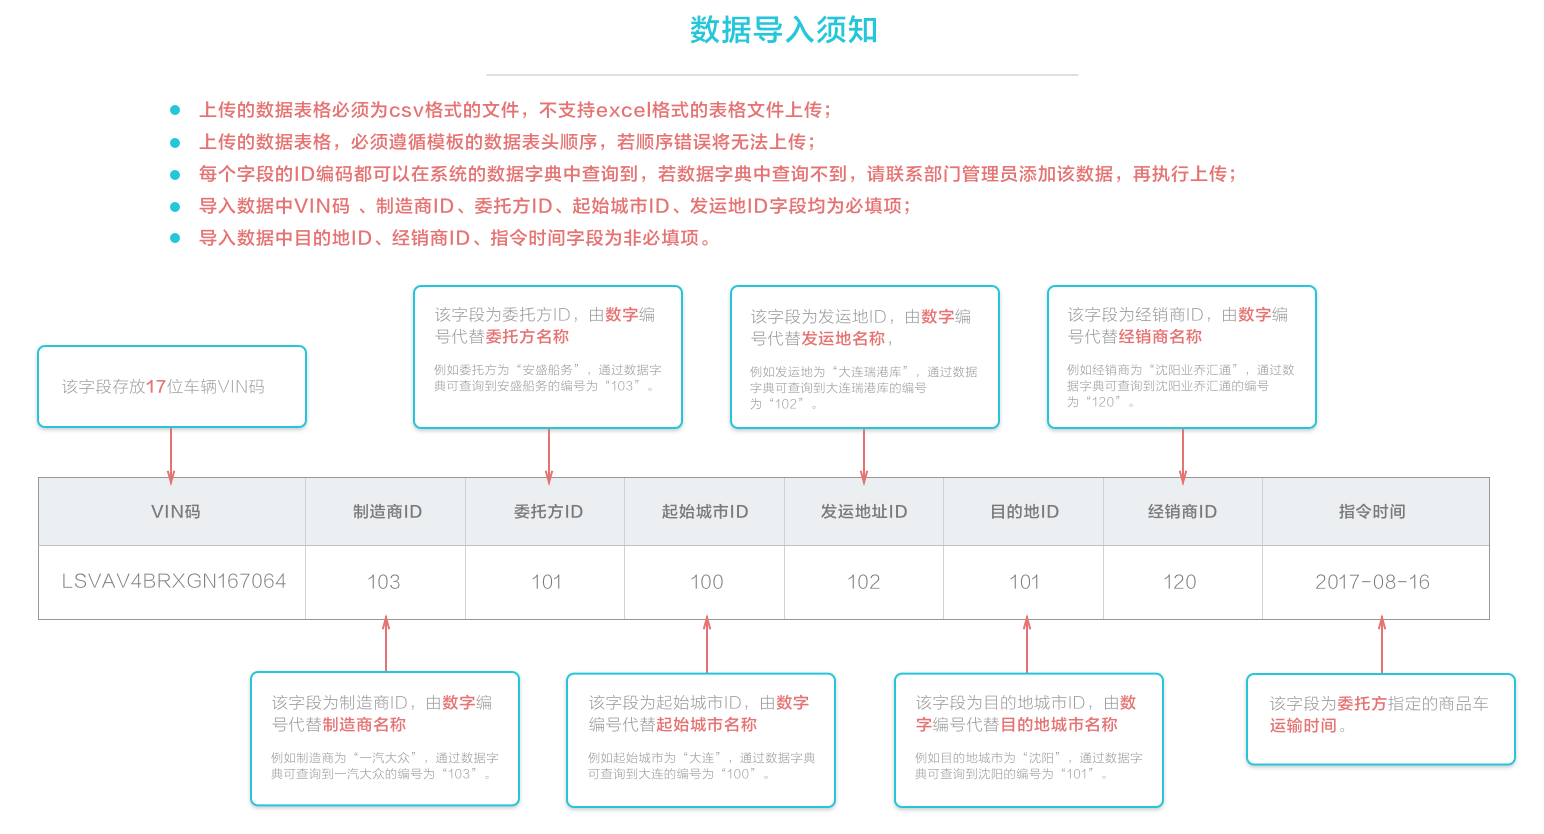
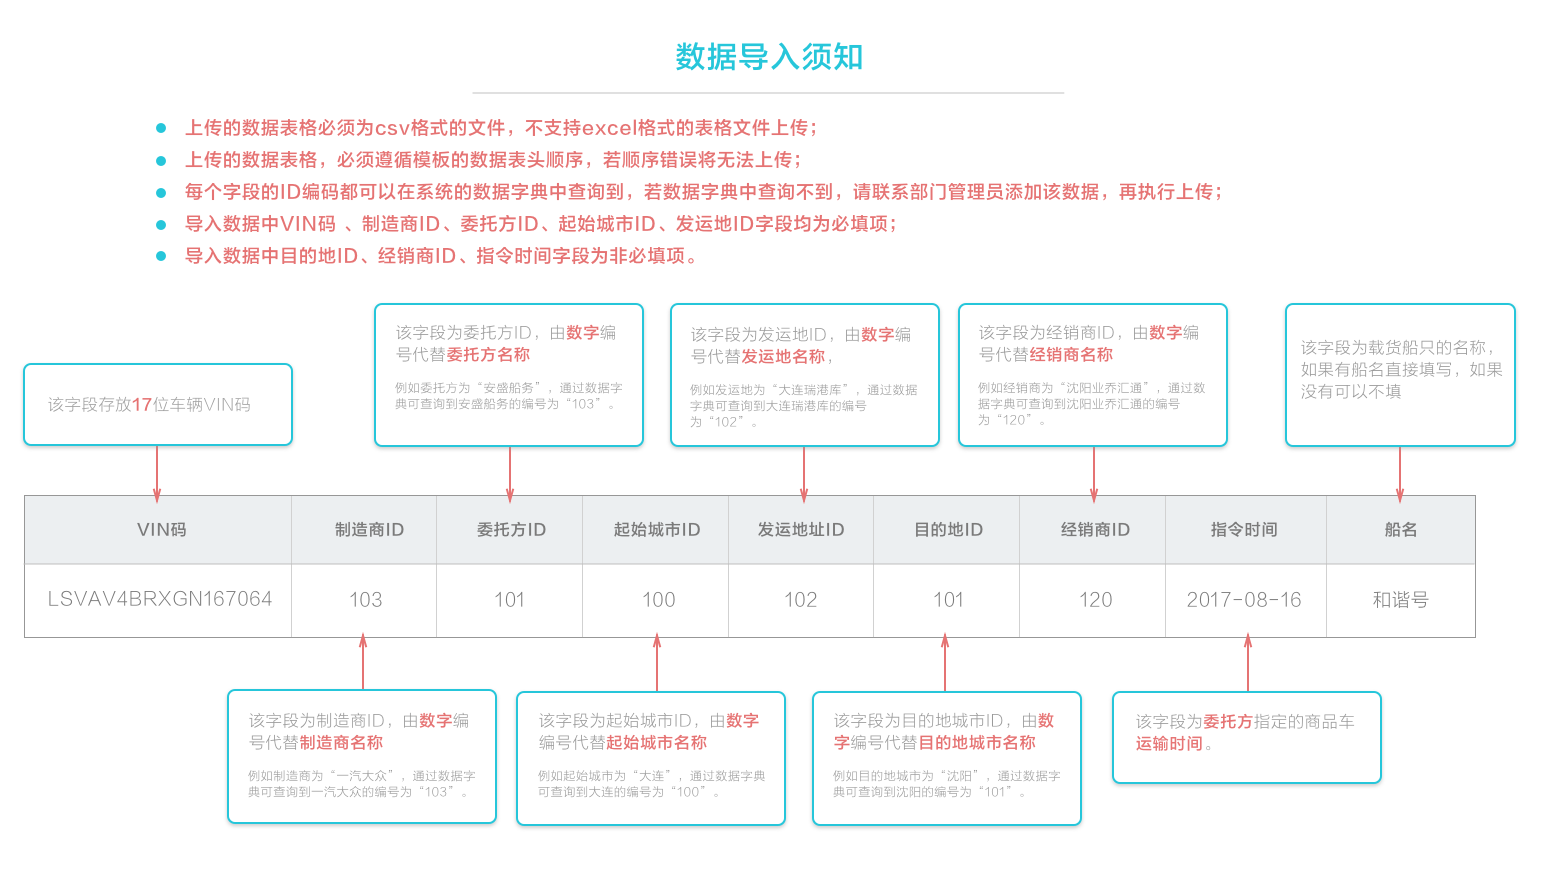
出车款修改 添加商品车费住宿费

diff --git a/web/js/controller/data/car_to_data_controller.js b/web/js/controller/data/car_to_data_controller.js
@@ -51,7 +51,8 @@ app.controller("car_to_data_controller", ['$scope', "$host", '_basic', '_socket'
             {name: '发运地址ID', type: 'number', length: 3, require: true},
             {name: '目的地ID', type: 'number', length: 3},
             {name: '经销商ID', type: 'number', length: 3},
-            {name: '指令时间', type: 'string'}];
+            {name: '指令时间', type: 'string'},
+            {name: '船名', type: 'string', length: 15}];
         // 头部条件判断
         $scope.titleFilter = function (headerArray) {
             if (colObjs.length != headerArray.length) {
@@ -474,58 +475,58 @@ app.controller("car_to_data_controller", ['$scope', "$host", '_basic', '_socket'
             $scope.flag = false;
 
         }
-    // 城市信息获取
-    $scope.get_Msg = function () {
-        _basic.get($host.api_url + "/city").then(function (data) {
-            if (data.success == true) {
-                $scope.get_city = data.result;
-                $('#chooseStartCity').select2({
-                    containerCssClass: 'select2_dropdown'
-                });
-                $('#chooseEndCity').select2({
-                    containerCssClass: 'select2_dropdown'
-                });
-            }
-        });
+        // 城市信息获取
+        $scope.get_Msg = function () {
+            _basic.get($host.api_url + "/city").then(function (data) {
+                if (data.success == true) {
+                    $scope.get_city = data.result;
+                    $('#chooseStartCity').select2({
+                        containerCssClass: 'select2_dropdown'
+                    });
+                    $('#chooseEndCity').select2({
+                        containerCssClass: 'select2_dropdown'
+                    });
+                }
+            });
 
-        // 车辆品牌查询
-        _basic.get($host.api_url + "/carMake").then(function (data) {
-            if (data.success == true) {
-                $scope.makecarName = data.result;
-            }
-            else {
-                swal(data.msg, "", "error");
-            }
-        });
+            // 车辆品牌查询
+            _basic.get($host.api_url + "/carMake").then(function (data) {
+                if (data.success == true) {
+                    $scope.makecarName = data.result;
+                }
+                else {
+                    swal(data.msg, "", "error");
+                }
+            });
 
-        // 经销商
-        _basic.get($host.api_url + "/receive").then(function (data) {
-            if (data.success == true) {
-                $scope.get_receive = data.result;
-            }
-        });
+            // 经销商
+            _basic.get($host.api_url + "/receive").then(function (data) {
+                if (data.success == true) {
+                    $scope.get_receive = data.result;
+                }
+            });
 
-        // 委托方
-        _basic.get($host.api_url + "/entrust").then(function (data) {
-            if (data.success == true) {
-                $scope.get_entrust = data.result;
-            }
-        })
-    };
-    $scope.get_Msg();
+            // 委托方
+            _basic.get($host.api_url + "/entrust").then(function (data) {
+                if (data.success == true) {
+                    $scope.get_entrust = data.result;
+                }
+            })
+        };
+        $scope.get_Msg();
 
-    // 发运地城市地质联动
-    $scope.get_addr = function (id) {
-        $scope.selectedText = $("#chooseStartCity").find("option:selected").text();
-        _basic.get($host.api_url + "/baseAddr?cityId=" + id).then(function (data) {
-            if (data.success == true) {
-                $scope.start_address = data.result;
-            }
-            else {
-                swal(data.msg, "", "error")
-            }
-        })
-    };
+        // 发运地城市地质联动
+        $scope.get_addr = function (id) {
+            $scope.selectedText = $("#chooseStartCity").find("option:selected").text();
+            _basic.get($host.api_url + "/baseAddr?cityId=" + id).then(function (data) {
+                if (data.success == true) {
+                    $scope.start_address = data.result;
+                }
+                else {
+                    swal(data.msg, "", "error")
+                }
+            })
+        };
 
         //模糊查询
         var vinObjs ={}
@@ -596,60 +597,60 @@ app.controller("car_to_data_controller", ['$scope', "$host", '_basic', '_socket'
 
 
 
-    // 修改
-    $scope.putDataItem = function (id) {
-        $scope.putDataItemId = id;
-        if($scope.arrive_city==0||$scope.arrive_city==''||$scope.start_city==0||$scope.start_city==''){
-            swal('请填写完整信息！',"","error")
-        }
-        else{
-            _basic.get($host.api_url +'/city?cityId='+$scope.start_city).then(function (data) {
-                if (data.success == true) {
-                    $scope.putStartCity=data.result[0].city_name;
-                }
-                else {
-                    swal(data.msg, "", "error")
-                }
-            });
-            _basic.get($host.api_url +'/city?cityId='+$scope.arrive_city).then(function (data) {
-                if (data.success == true) {
-                    $scope.putArriveCity=data.result[0].city_name;
-                    putSingleData();
-                }
-                else {
-                    swal(data.msg, "", "error")
-                }
-            });
+        // 修改
+        $scope.putDataItem = function (id) {
+            $scope.putDataItemId = id;
+            if($scope.arrive_city==0||$scope.arrive_city==''||$scope.start_city==0||$scope.start_city==''){
+                swal('请填写完整信息！',"","error")
+            }
+            else{
+                _basic.get($host.api_url +'/city?cityId='+$scope.start_city).then(function (data) {
+                    if (data.success == true) {
+                        $scope.putStartCity=data.result[0].city_name;
+                    }
+                    else {
+                        swal(data.msg, "", "error")
+                    }
+                });
+                _basic.get($host.api_url +'/city?cityId='+$scope.arrive_city).then(function (data) {
+                    if (data.success == true) {
+                        $scope.putArriveCity=data.result[0].city_name;
+                        putSingleData();
+                    }
+                    else {
+                        swal(data.msg, "", "error")
+                    }
+                });
+            };
         };
-    };
 
-function putSingleData(){
-    var obj = {
-        "vin": $scope.commodityCarList.vin,
-        "makeId": $scope.commodityCarList.make_id,
-        "makeName": $("#look_makecarName").find("option:selected").text(),
-        "orderDate": $scope.commodityCarList.order_date,
-        "remark": $scope.commodityCarList.remark,
-        "routeStartId": $scope.start_city,
-        "routeStart":$scope.putStartCity,
-        "baseAddrId": $scope.start_addr,
-        "routeEndId": $scope.arrive_city,
-        "routeEnd":$scope.putArriveCity,
-        "receiveId": $scope.commodityCarList.receive_id,
-        "entrustId": $scope.commodityCarList.entrust_id
-    };
-    // 修改仓库信息
-    _basic.put($host.api_url + "/user/" + userId + "/car/" +  $scope.putDataItemId, _basic.removeNullProps(obj)).then(function (data) {
-        if (data.success == true) {
-            $('#commodityCar').modal('close');
-            swal("修改成功", "", "success");
+       function putSingleData(){
+        var obj = {
+            "vin": $scope.commodityCarList.vin,
+            "makeId": $scope.commodityCarList.make_id,
+            "makeName": $("#look_makecarName").find("option:selected").text(),
+            "orderDate": $scope.commodityCarList.order_date,
+            "remark": $scope.commodityCarList.remark,
+            "routeStartId": $scope.start_city,
+            "routeStart":$scope.putStartCity,
+            "baseAddrId": $scope.start_addr,
+            "routeEndId": $scope.arrive_city,
+            "routeEnd":$scope.putArriveCity,
+            "receiveId": $scope.commodityCarList.receive_id,
+            "entrustId": $scope.commodityCarList.entrust_id
+        };
+        // 修改仓库信息
+        _basic.put($host.api_url + "/user/" + userId + "/car/" +  $scope.putDataItemId, _basic.removeNullProps(obj)).then(function (data) {
+            if (data.success == true) {
+                $('#commodityCar').modal('close');
+                swal("修改成功", "", "success");
 
-        }
-        else {
-            swal(data.msg, "", "error")
-        }
-    });
-}
+            }
+            else {
+                swal(data.msg, "", "error")
+            }
+        });
+    }
 
 
 

diff --git a/web/js/view/finance/driver_cost.html b/web/js/view/finance/driver_cost.html
@@ -47,7 +47,14 @@
                 <th data-field="">司机</th>
                 <th data-field="">洗车费</th>
                 <th data-field="">门卫费</th>
-                <th data-field="">出车款</th>
+                <th data-field="">过路费</th>
+                <th data-field="">燃料费</th>
+                <th data-field="">保道费</th>
+                <th data-field="">罚款费</th>
+                <th data-field="">停车费</th>
+                <th data-field="">打车费</th>
+                <th data-field="">住宿费</th>
+                <th data-field="">商品车费用</th>
                 <th data-field="">货车维修费</th>
                 <th data-field="">违章扣款</th>
                 <th data-field="">超量扣款</th>
@@ -58,16 +65,23 @@
                 <td>{{driveInfo.drive_name==null?0:driveInfo.drive_name}}</td>
                 <td>{{driveInfo.actual_price==null?0:driveInfo.actual_price}}</td>
                 <td>{{driveInfo.actual_guard_fee==null?0:driveInfo.actual_guard_fee}}</td>
-                <td>{{driveInfo.grant_actual_money==null?0:driveInfo.grant_actual_money}}</td>
+                <td>{{driveInfo.grant_passing_cost==null?0:driveInfo.grant_passing_cost}}</td>
+                <td>{{driveInfo.grant_fuel_cost==null?0:driveInfo.grant_fuel_cost}}</td>
+                <td>{{driveInfo.grant_protect_cost==null?0:driveInfo.grant_protect_cost}}</td>
+                <td>{{driveInfo.grant_penalty_cost==null?0:driveInfo.grant_penalty_cost}}</td>
+                <td>{{driveInfo.grant_parking_cost==null?0:driveInfo.grant_parking_cost}}</td>
+                <td>{{driveInfo.grant_taxi_cost==null?0:driveInfo.grant_taxi_cost}}</td>
+                <td>{{driveInfo.grant_hotel_cost==null?0:driveInfo.grant_hotel_cost}}</td>
+                <td>{{driveInfo.grant_car_cost==null?0:driveInfo.grant_car_cost}}</td>
                 <td>{{driveInfo.repair_money==null?0:driveInfo.repair_money}}</td>
                 <td>{{driveInfo.peccancy_fine_money==null?0:driveInfo.peccancy_fine_money}}</td>
                 <td>{{driveInfo.exceed_oil_money==null?0:driveInfo.exceed_oil_money}}</td>
             </tr>
             <tr ng-if="driveList.length==0&&instruct_starTime!==undefined&&instruct_endTime!==undefined">
-                <td colspan="10">暂无数据</td>
+                <td colspan="17">暂无数据</td>
             </tr>
             <tr ng-if="instruct_starTime==undefined||instruct_endTime==undefined&&driveList.length==0">
-                <td colspan="10"><i class="mdi  mdi-alert-circle-outline red-text fz30"></i>&nbsp;&nbsp;&nbsp;指令时间为必填项</td>
+                <td colspan="17"><i class="mdi  mdi-alert-circle-outline red-text fz30"></i>&nbsp;&nbsp;&nbsp;指令时间为必填项</td>
             </tr>
             </tbody>
         </table>

diff --git a/web/js/view/finance/finance_route_fee_details.html b/web/js/view/finance/finance_route_fee_details.html
@@ -233,13 +233,13 @@
                     <p>停车费：<span style="color: #e57373">{{routeFeeInfo.grant_parking_cost}}</span> 元</p>
                 </div>
                 <div class="col s3">
-                    <p>住宿费：<span style="color: #e57373">{{routeFeeInfo.grant_taxi_cost}}</span> 元</p>
+                    <p>打车费：<span style="color: #e57373">{{routeFeeInfo.grant_taxi_cost}}</span> 元</p>
                 </div>
                 <div class="col s3">
-                    <p>商品车费用：<span style="color: #e57373">{{routeFeeInfo.grant_hotel_cost}}</span> 元</p>
+                    <p>住宿费：<span style="color: #e57373">{{routeFeeInfo.grant_hotel_cost}}</span> 元</p>
                 </div>
                 <div class="col s3">
-                    <p>打车费：<span style="color: #e57373">{{routeFeeInfo.grant_car_cost}}</span> 元</p>
+                    <p>商品车费用：<span style="color: #e57373">{{routeFeeInfo.grant_car_cost}}</span> 元</p>
                 </div>
             </div>
 
@@ -319,10 +319,10 @@
                         <p>打车费：<span style="color: #e57373">{{routeFeeInfo.refund_taxi_cost}}</span> 元</p>
                     </div>
                     <div class="col s3">
-                        <p>商品车费用：<span style="color: #e57373">{{routeFeeInfo.refund_hotel_cost}}</span> 元</p>
+                        <p>住宿费：<span style="color: #e57373">{{routeFeeInfo.refund_hotel_cost}}</span> 元</p>
                     </div>
                     <div class="col s3">
-                        <p>打车费：<span style="color: #e57373">{{routeFeeInfo.refund_car_cost}}</span> 元</p>
+                        <p>商品车费用：<span style="color: #e57373">{{routeFeeInfo.refund_car_cost}}</span> 元</p>
                     </div>
                 </div>
                 <div class="col s12" style="color: darkgray;font-size: 1.2rem">
